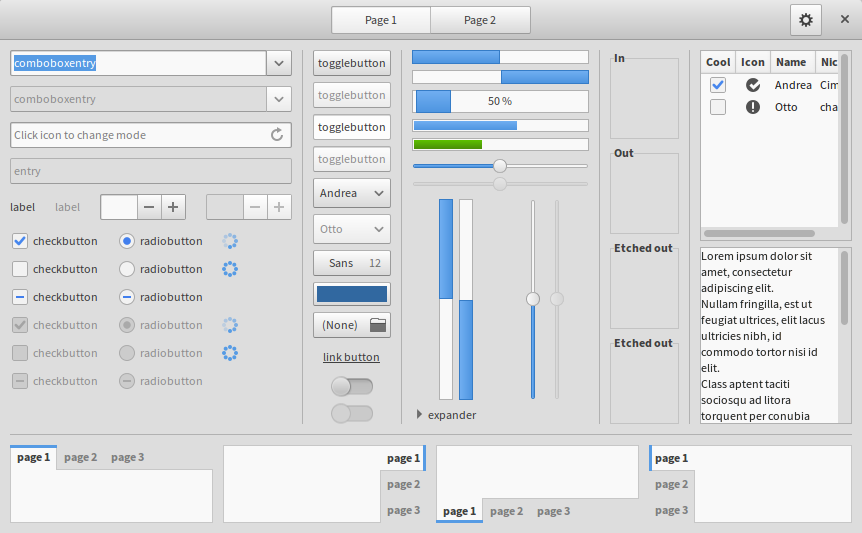
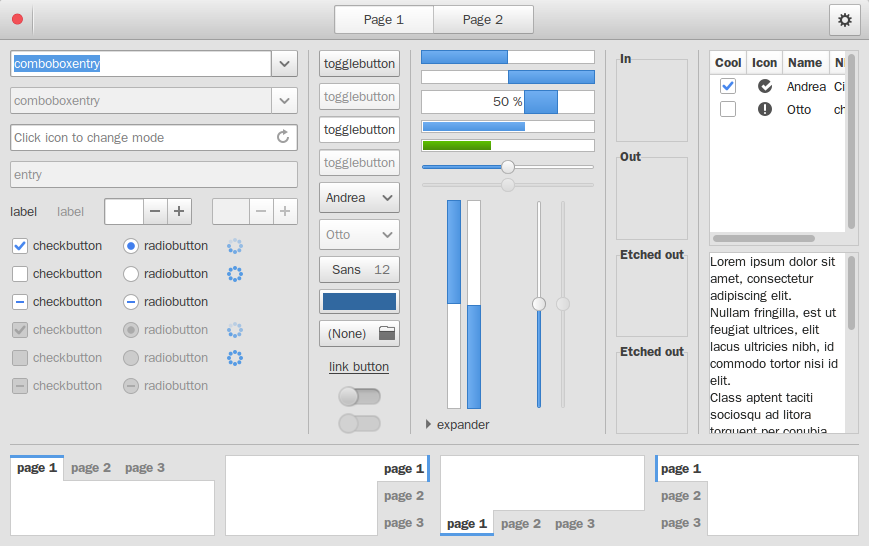
nothing special

diff --git a/MosLight/gtk-3.0/gtk-widgets.css b/MosLight/gtk-3.0/gtk-widgets.css
@@ -589,7 +589,7 @@ GtkComboBox.combobox-entry .button:insensitive {
     border-right-color: shade(@theme_bg_color, 0.8);
     border-left-color: shade(@theme_bg_color, 0.8);
     border-bottom-color: shade(@theme_bg_color, 0.7);
-    background-color: @theme_bg_color;
+    background-color: shade (@theme_bg_color,1.06);
     background-image: none;
     color: mix(@theme_text_color, @theme_base_color, 0.5);;
 }
@@ -1604,8 +1604,8 @@ GtkLevelBar.vertical {
 
 .sidebar row:prelight,
 .sidebar .view row:prelight {
-    border-color: mix(shade(@theme_base_color, 0.9), shade(@theme_selected_bg_color, 1.35), 0.3);
-    background-color: mix(shade(@theme_base_color, 0.9), shade(@theme_selected_bg_color, 1.35), 0.2);
+    border-color: mix(shade(@theme_base_color, 0.9), shade(@theme_bg_color, 1.35), 0.2);
+    background-color: mix(shade(@theme_base_color, 0.9), shade(@theme_bg_color, 1.35), 0.8);
     background-image: none;
 }
 

diff --git a/MoseMite/gtk-3.0/gtk-widgets.css b/MoseMite/gtk-3.0/gtk-widgets.css
@@ -590,7 +590,7 @@ GtkComboBox.combobox-entry .button:insensitive {
     border-right-color: shade(@theme_bg_color, 0.8);
     border-left-color: shade(@theme_bg_color, 0.8);
     border-bottom-color: shade(@theme_bg_color, 0.7);
-    background-color: @theme_bg_color;
+    background-color: shade (@theme_bg_color,1.06);
     background-image: none;
     color: mix(@theme_text_color, @theme_base_color, 0.5);;
 }

diff --git a/MosLight/gtk-3.0/gtk-widgets-assets.css b/MosLight/gtk-3.0/gtk-widgets-assets.css
@@ -11,6 +11,13 @@
 	border-image: -gtk-scaled(url("assets/header-separator.png"),url("assets/header-separator@2.png")) 0 1 0 1 / 0 1px 0 1px stretch;
 }
 
+/****************
+ * Content view *
+ ****************/
+.content-view.view {
+    background-image: url("assets/noise-texture-light.png");
+}
+
 /*******************
  * check and radio *
  *******************/

diff --git a/MosLight/gtk-3.0/gtk-widgets-assets-dark.css b/MosLight/gtk-3.0/gtk-widgets-assets-dark.css
@@ -11,7 +11,12 @@
 	border-image: -gtk-scaled(url("assets/header-separator_dark.png"),url("assets/header-separator_dark@2.png")) 0 1 0 1 / 0 1px 0 1px stretch;
 }
 
-
+/****************
+ * Content view *
+ ****************/
+.content-view.view {
+    background-image: url("assets/noise-texture-dark.png");
+}
 
 /*******************
  * check and radio *

diff --git a/MosLight/gtk-3.0/gtk.css b/MosLight/gtk-3.0/gtk.css
@@ -16,7 +16,7 @@
 @define-color insensitive_fg_color shade(@fg_color, 1.12);
 
 /* nautilus and gtkfilechooser sidebar colors */
-@define-color sidebar_bg_color #eaeaea;
+@define-color sidebar_bg_color #e8edf1;
 @define-color sidebar_fg_color #555555;
 
 @define-color sidebar_bg @sidebar_bg_color;
